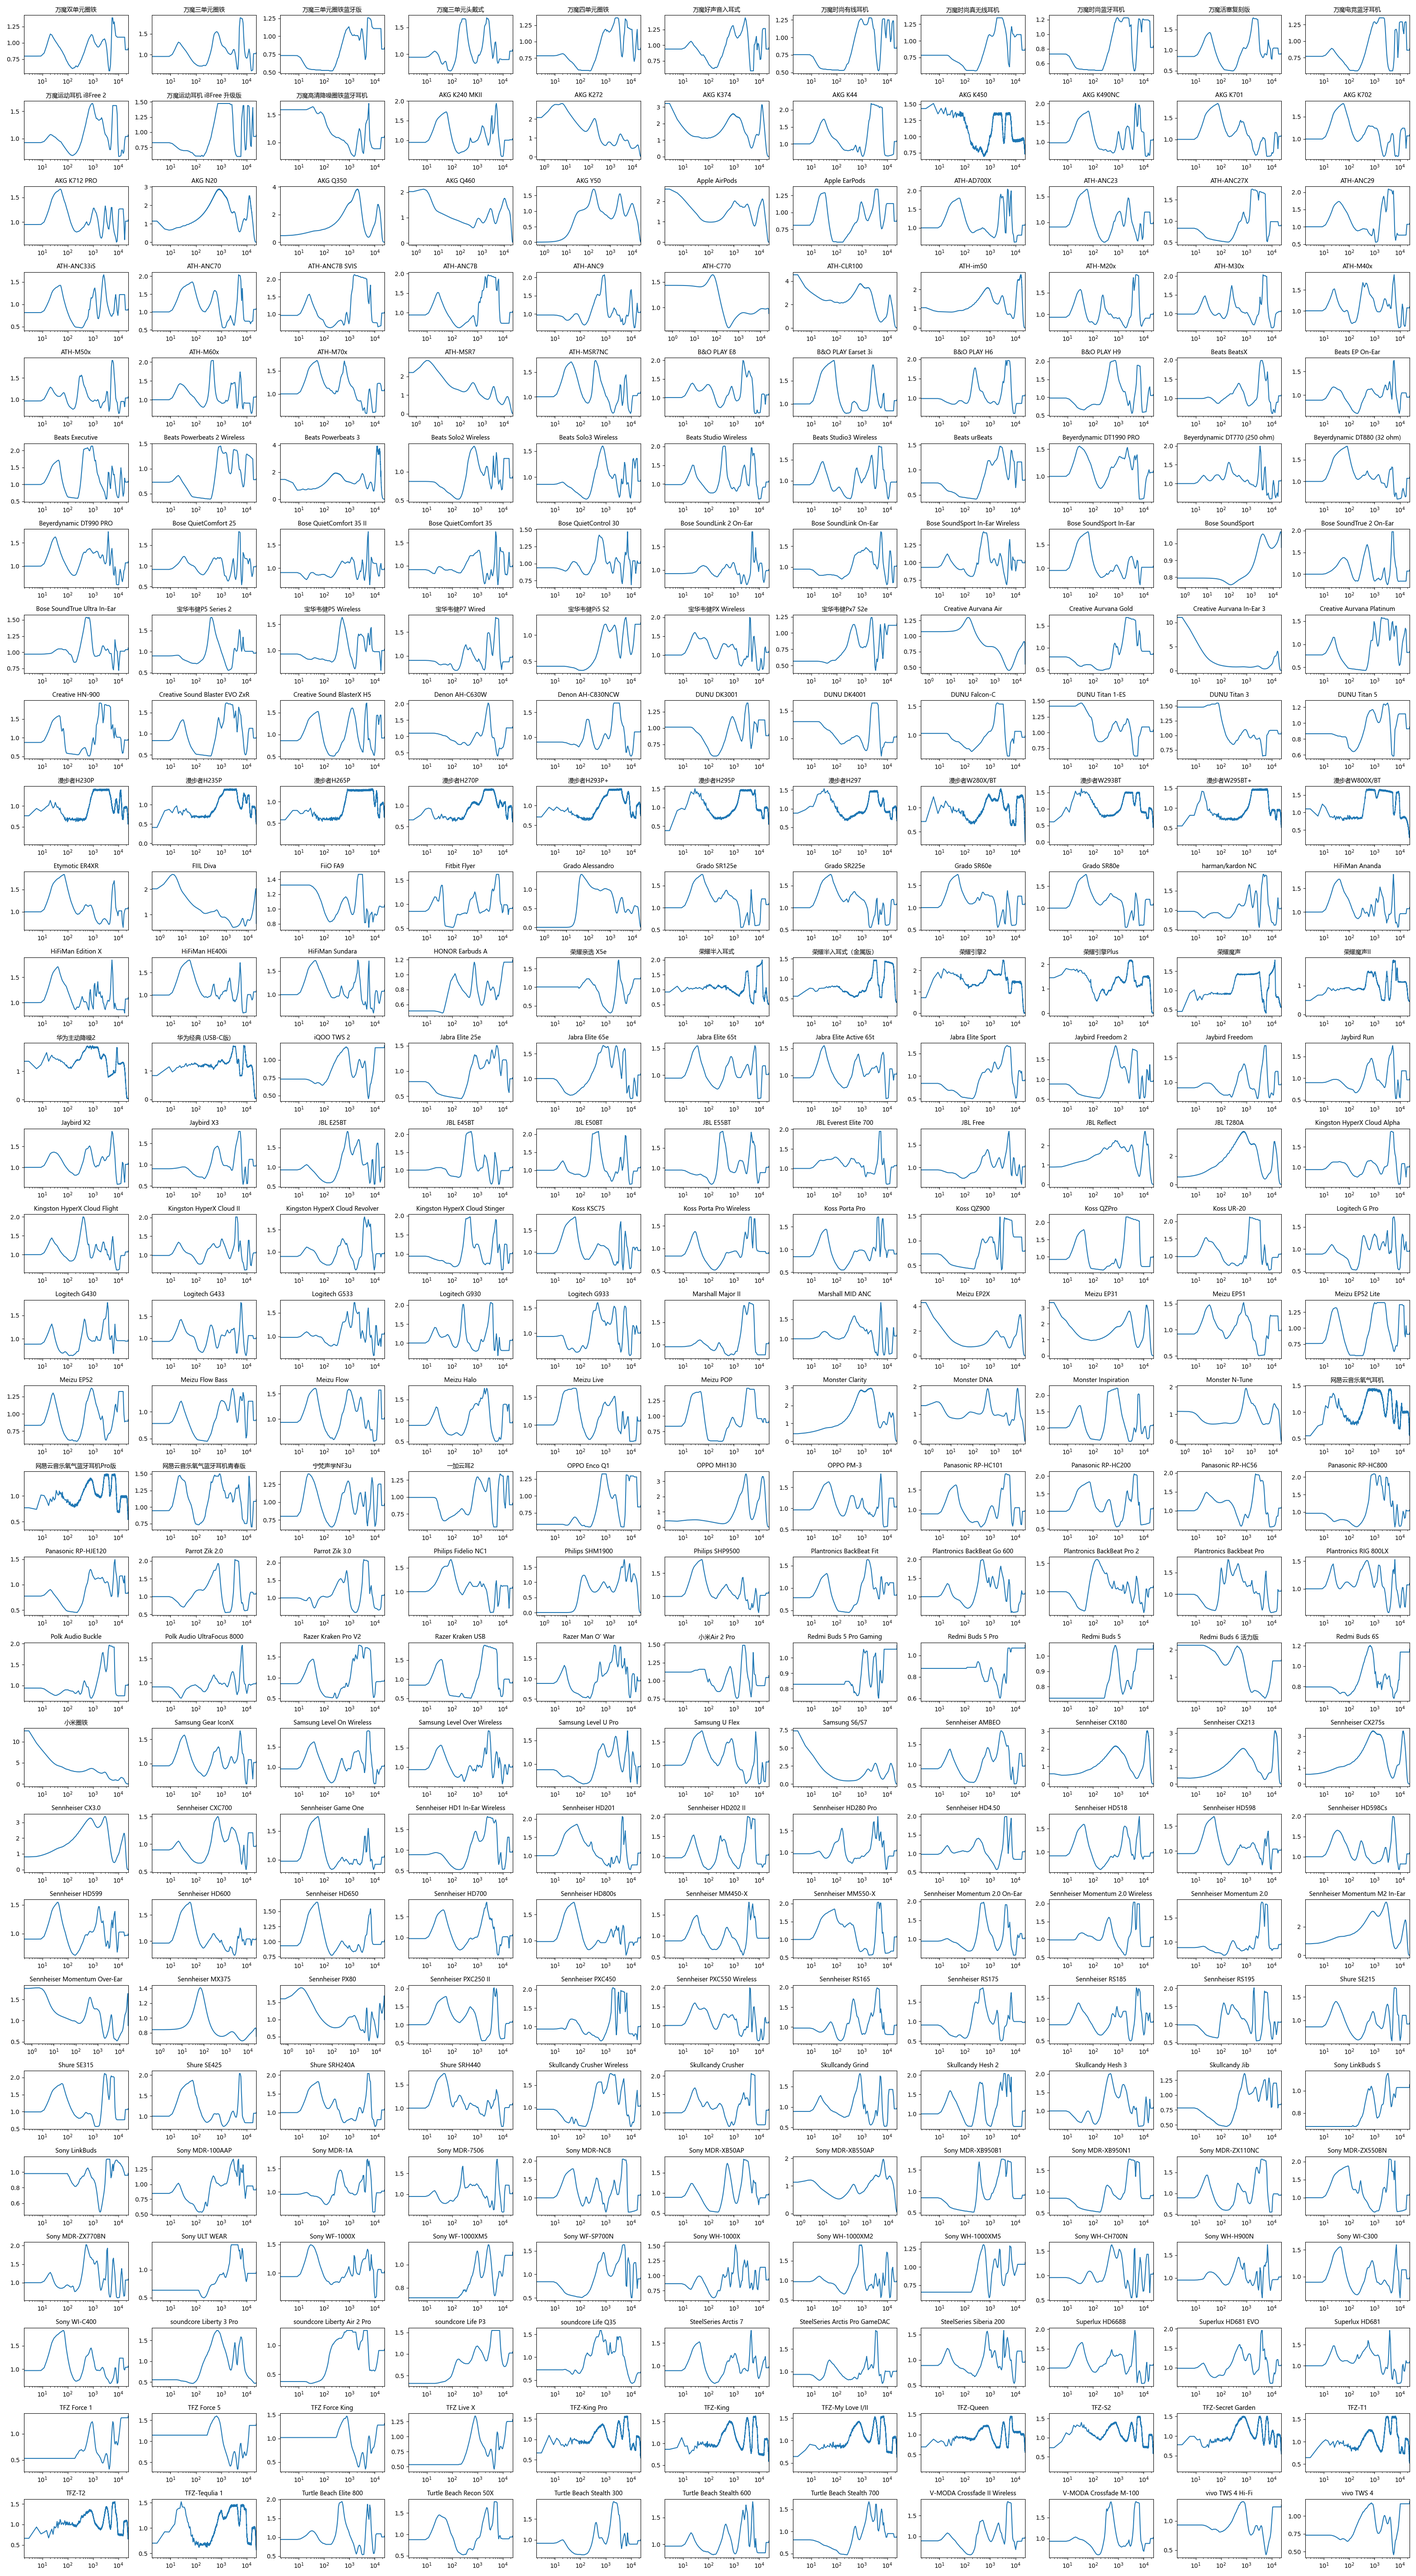
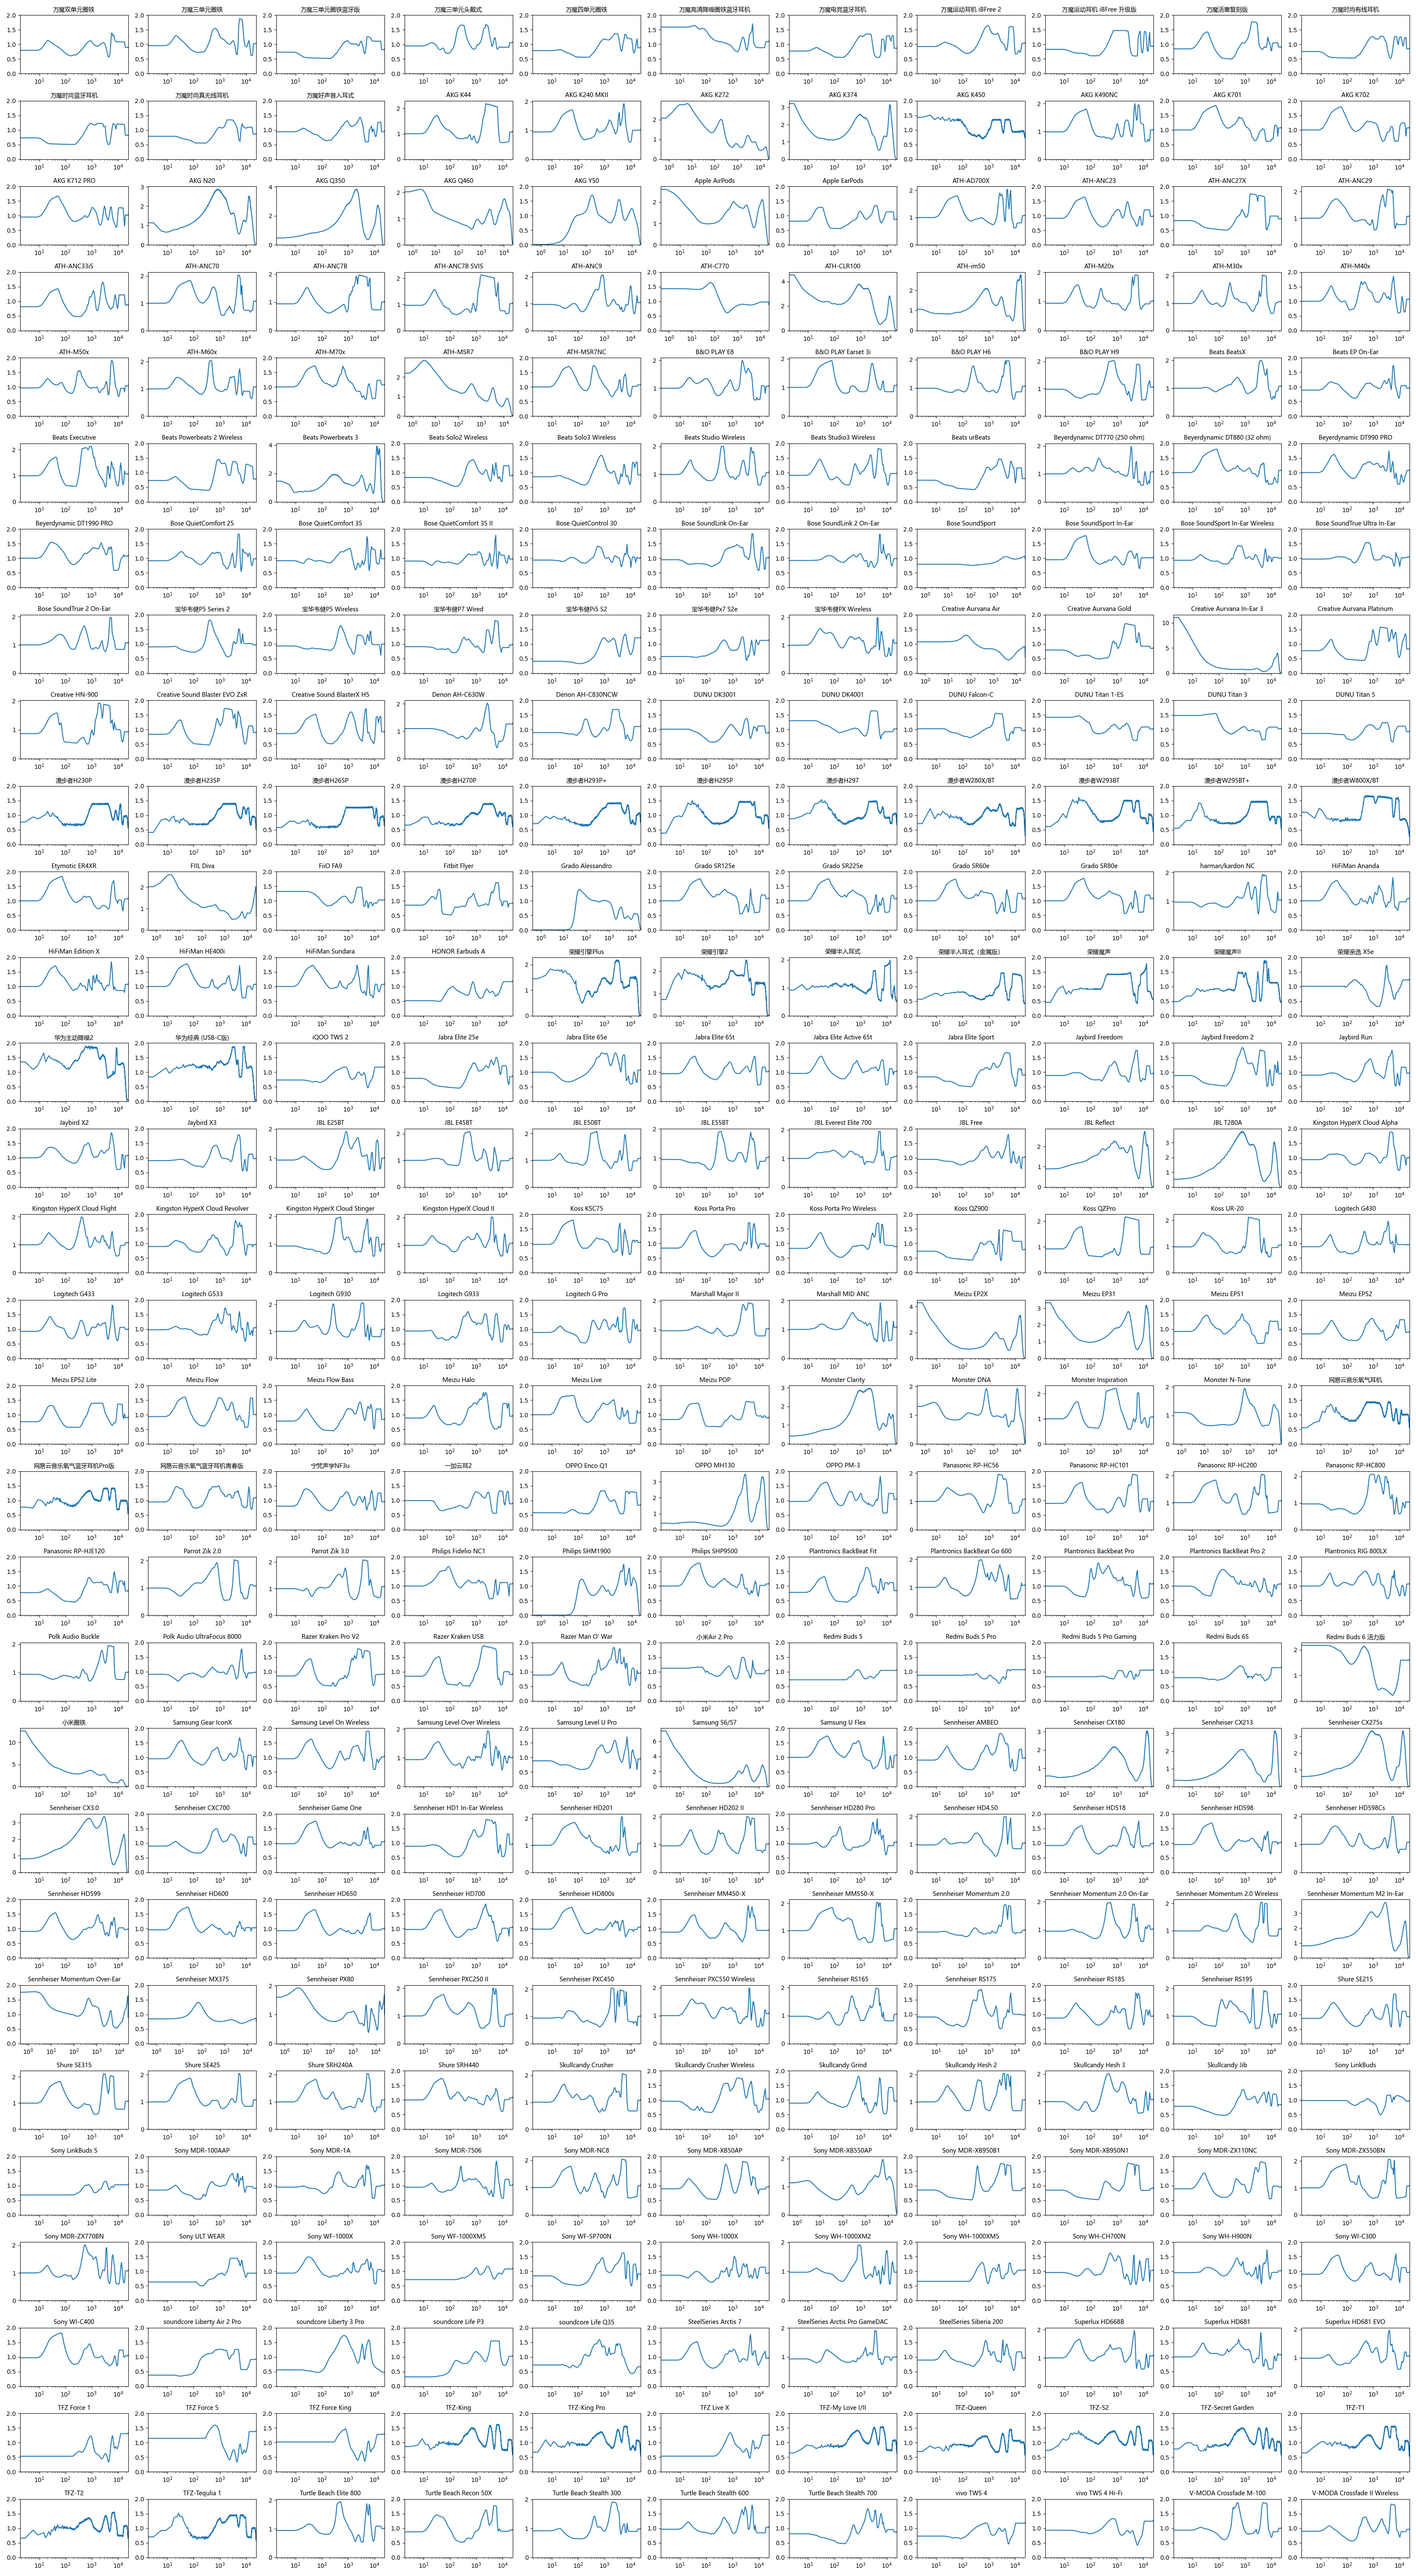
[Docs] Normalize IR freq-domain plot; fix plot ordering

diff --git a/ncae/plugins/utils.py b/ncae/plugins/utils.py
@@ -85,13 +85,16 @@ class ImpulseResponse:
             for freq in ticks.keys():
                 ax.axvline(freq, color="#D8D8D8", linestyle="--")
 
+        fft_max = 0
         for i in range(data.shape[1]):
             fft = np.abs(np.fft.fft(data[:, i]))
             freqs = np.fft.fftfreq(n, 1 / self.sr)
             ax.plot(freqs[: n // 2], fft[: n // 2])
+            fft_max = max(fft_max, fft.max())
 
         ax.set_xscale("log")
         ax.set_xlim(0, 24000)
+        ax.set_ylim(0, max(fft_max * 1.05, 2))
 
         if show_ticks:
             ax.set_xticks(list(ticks.keys()))
